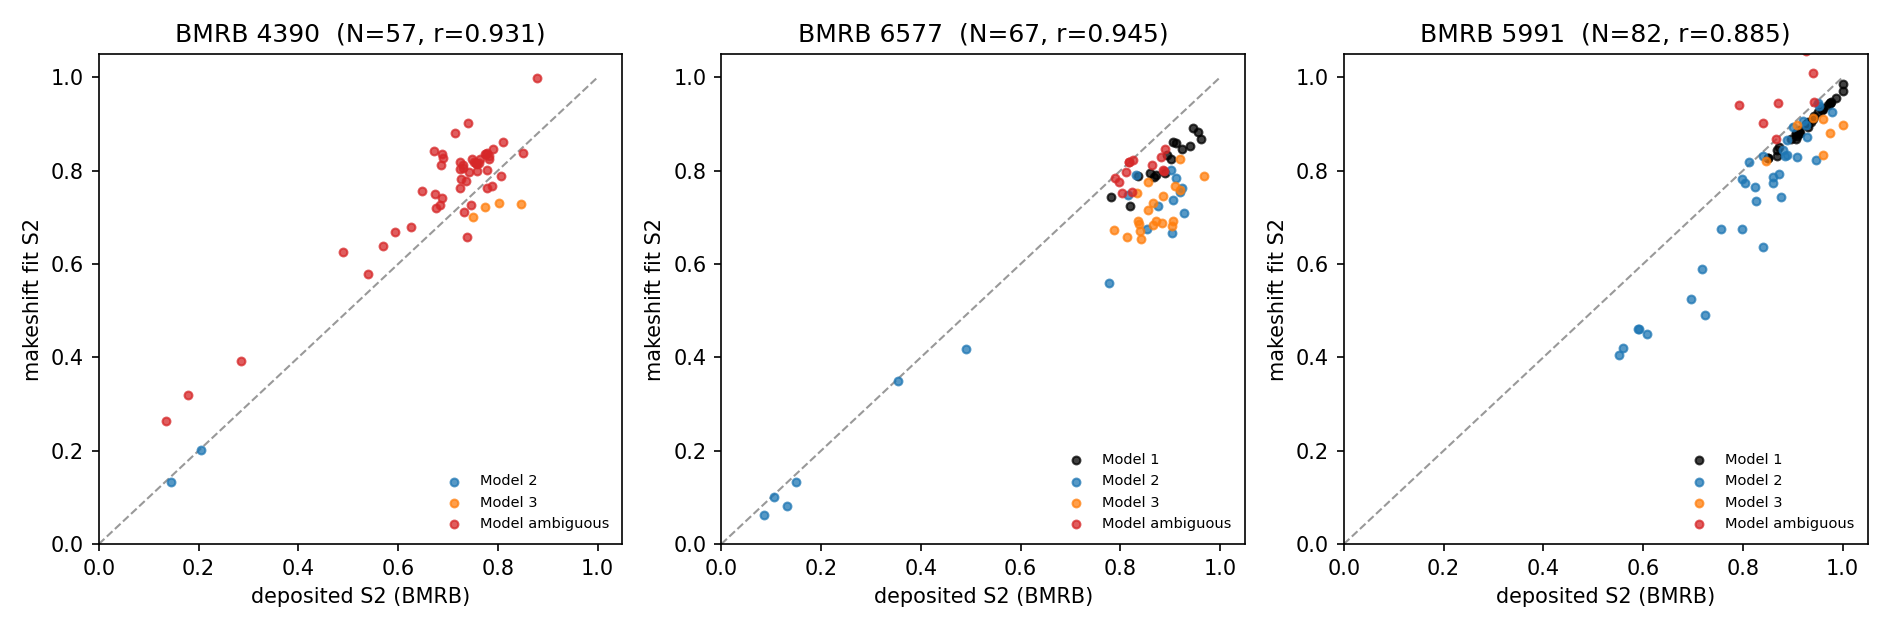
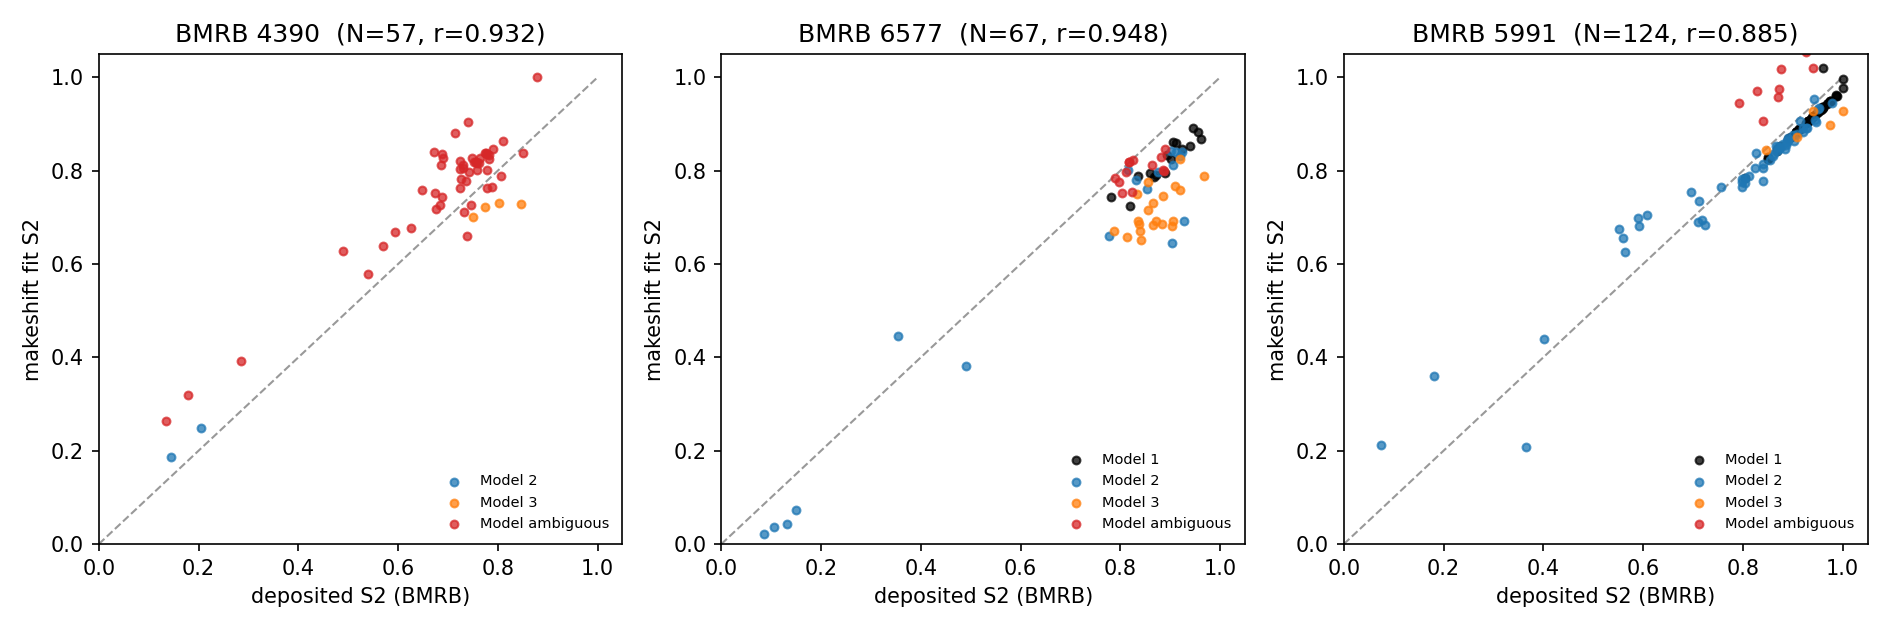
Fix multi-field mixing, promiscuous-PDB selection, and Model 2's missing NOE term
Three bugs found while extending validation to a multi-field, promiscuous
entry (BMRB 4245, ubiquitin):

1. RelaxationProfile.from_entry silently mixed relaxation lists across
   different spectrometer fields (entry.relaxation() returns all lists
   concatenated; alignment took first-match-per-residue with no regard
   for which field each row came from). Added field resolution
   (_resolve_field/_filter_by_list) that picks one target field (explicit
   or auto-detected where consistent across T1/T2/NOE) and filters to it;
   the resolved field is stored on the profile and reused by
   add_rigid_prediction/fit_order_parameters so data and physics always
   agree on field.

2. _resolve_pdb took get_pdb_ids()[0] unconditionally. For proteins with
   no depositor-curated related-entry link, that list is just every PDB
   sharing the sequence via entity cross-references (280 hits for
   ubiquitin) in no meaningful order -- landed on a fusion/complex
   structure with the wrong diffusion tensor. _best_pdb_by_length now
   checks candidates' polymer size via RCSB's entry API and prefers one
   matching this entry's own sequence length (falls back to [0]
   unchanged when the list is short or nothing matches).

3. The bigger one: _fit_model2's chi-square only ever included R1 and R2,
   never NOE, despite the physics writeup's explicit point that NOE is
   what makes tau_e distinguishable from S2 in the first place (S2 and
[…]

diff --git a/makeshift/relaxation/relax_profile.py b/makeshift/relaxation/relax_profile.py
@@ -76,7 +76,8 @@ class RelaxationProfile:
         those has run.
     """
  
-    def __init__(self, table, sequence, entry_id=None, entity_id=None, entry=None):
+    def __init__(self, table, sequence, entry_id=None, entity_id=None, entry=None,
+                 field_mhz=None):
         self.table = table
         self.sequence = sequence
         self.entry_id = entry_id
@@ -84,23 +85,38 @@ class RelaxationProfile:
         self.entry = entry
         self.scale_factor = None
         self.tau_scale = None
+        self.field_mhz = field_mhz
  
     # construction
  
     @classmethod
     def from_bmrb(cls, bmrb_id, entity_id=None, sequence=None, peaklist=None,
-                  **fetch_kw):
+                  field_mhz=None, **fetch_kw):
         """Fetch a BMRB entry and build a profile from its deposited relaxation."""
         entry = NMRStarEntry.from_bmrb(bmrb_id, **fetch_kw)
         return cls.from_entry(entry, entity_id=entity_id, sequence=sequence,
-                              peaklist=peaklist)
+                              peaklist=peaklist, field_mhz=field_mhz)
  
     @classmethod
-    def from_entry(cls, entry, entity_id=None, sequence=None, peaklist=None):
+    def from_entry(cls, entry, entity_id=None, sequence=None, peaklist=None,
+                   field_mhz=None):
         """
         Build from an already-parsed NMRStarEntry.
         Pulls R1 (from T1), R2 (from T2), and hetNOE, converting times to rates
         using each list's units tag.
+
+        Some entries deposit relaxation at more than one spectrometer field
+        (separate lists within the T1/T2/NOE loops). Mixing lists from
+        different fields into one R1/R2/NOE triple per residue would be
+        physically wrong, so a single target field is resolved first:
+        `field_mhz` if given, else whichever 1H frequency is tagged
+        consistently across T1/T2/NOE (raises if that's ambiguous — pass
+        `field_mhz` explicitly, found via e.g.
+        `entry.saveframe('heteronucl_T1_relaxation')`). Lists with no field
+        tag at all are used unfiltered (old behavior). The resolved field
+        is stored as `self.field_mhz`, reused by
+        `add_rigid_prediction`/`fit_order_parameters` so the data and the
+        physics predictions are always at the same field.
 
         `peaklist` (a PeakList, a DataFrame with a Seq_ID column, or an iterable
         of Seq_IDs) marks which residues have an assigned amide peak; if None,
@@ -125,14 +141,18 @@ class RelaxationProfile:
             "Seq_ID": np.arange(1, n + 1),
             "residue": list(sequence),
         })
+
+        field_mhz, list_filter = cls._resolve_field(entry, field_mhz)
  
         for kind, col in (("T1", "R1"), ("T2", "R2")):
             df = entry.relaxation(kind)
+            df = cls._filter_by_list(df, list_filter.get(kind))
             units = cls._list_units(entry, kind)
             table[col], table[f"{col}_err"] = cls._align_rate(
                 df, n, units, kind, entry_id=entry.entry_id)
  
         noe = entry.relaxation("NOE")
+        noe = cls._filter_by_list(noe, list_filter.get("NOE"))
         table["NOE"], table["NOE_err"] = cls._align_plain(noe, n)
  
         table["R2_R1"] = table["R2"] / table["R1"]
@@ -148,10 +168,91 @@ class RelaxationProfile:
  
         return cls(table, sequence,
                    entry_id=getattr(entry, "entry_id", None),
+                   field_mhz=field_mhz,
                    entity_id=entity_id, entry=entry)
  
     # alignment helpers
  
+    _RELAX_CATEGORY = {"T1": "heteronucl_T1_relaxation",
+                       "T2": "heteronucl_T2_relaxation",
+                       "NOE": "heteronucl_NOEs"}
+
+    @classmethod
+    def _list_fields_mhz(cls, entry, kind):
+        """{list framecode -> 1H spectrometer frequency (MHz)} for every
+        list of the given relaxation kind that carries the tag."""
+        out = {}
+        try:
+            sfs = entry.saveframe(cls._RELAX_CATEGORY[kind])
+        except Exception:
+            return out
+        for name, sf in sfs.items():
+            val = sf.get("Spectrometer_frequency_1H")
+            if val not in (None, ".", "?"):
+                try:
+                    out[name] = float(val)
+                except (TypeError, ValueError):
+                    continue
+        return out
+
+    @classmethod
+    def _resolve_field(cls, entry, field_mhz=None, tol_mhz=1.0):
+        """
+        Resolve a single target 1H field (MHz) and, for each of T1/T2/NOE,
+        which list framecodes belong to it. Returns (field_mhz,
+        {kind: set_of_list_names_or_None}) -- None means that kind has no
+        field tags at all, so it's used unfiltered.
+
+        If `field_mhz` isn't given: a field present (within `tol_mhz`)
+        across every kind that has any field tags is preferred; if none is
+        common to all of them, the most frequently tagged field is used.
+        Raises if no field tag is found anywhere and more than one list
+        exists for any kind (genuinely ambiguous -- pass `field_mhz`).
+        """
+        per_kind = {k: cls._list_fields_mhz(entry, k) for k in ("T1", "T2", "NOE")}
+        tagged = {k: f for k, f in per_kind.items() if f}
+
+        if field_mhz is None and tagged:
+            value_sets = [set(round(v) for v in f.values()) for f in tagged.values()]
+            common = set.intersection(*value_sets) if len(value_sets) > 1 else value_sets[0]
+            if common:
+                field_mhz = sorted(common)[0]
+            else:
+                from collections import Counter
+                counts = Counter(round(v) for f in tagged.values() for v in f.values())
+                field_mhz = counts.most_common(1)[0][0]
+
+        if field_mhz is None:
+            unfiltered = {k: None for k in ("T1", "T2", "NOE")}
+            for kind in ("T1", "T2", "NOE"):
+                df = entry.relaxation(kind)
+                n_lists = df["list"].nunique() if "list" in df.columns else 0
+                if n_lists > 1:
+                    raise ValueError(
+                        f"{entry.entry_id}: {kind} has {n_lists} lists and no "
+                        "Spectrometer_frequency_1H tag to disambiguate them; "
+                        "pass field_mhz=<1H frequency in MHz> explicitly"
+                    )
+            return None, unfiltered
+
+        list_filter = {}
+        for kind, fields in per_kind.items():
+            if not fields:
+                list_filter[kind] = None
+            else:
+                list_filter[kind] = {name for name, f in fields.items()
+                                     if abs(f - field_mhz) < tol_mhz}
+        return field_mhz, list_filter
+
+    @staticmethod
+    def _filter_by_list(df, list_names):
+        """Restrict a relaxation DataFrame to rows from `list_names`
+        (a set of framecodes); no-op if `list_names` is None or the
+        DataFrame has no `list` column."""
+        if list_names is None or "list" not in df.columns:
+            return df
+        return df[df["list"].isin(list_names)]
+
     @staticmethod
     def _list_units(entry, kind):
         override = fixes.unit_override(entry.entry_id, kind)
@@ -257,6 +358,44 @@ class RelaxationProfile:
     # structure resolution (shared by add_rigid_prediction and
     # fit_order_parameters)
 
+    def _best_pdb_by_length(self, pdb_ids, max_check=15, tol=5):
+        """
+        `get_pdb_ids()` can return a long, unordered list for widely-studied
+        proteins (e.g. ubiquitin: hundreds of fusion/complex structures
+        sharing its sequence via entity-level cross-references, when the
+        entry has no depositor-curated `_Related_entries` link) — picking
+        [0] blindly can land on a fusion or oligomeric complex with a very
+        different diffusion tensor than this entry's own construct.
+
+        Checks up to `max_check` candidates' polymer size via RCSB's entry
+        API (one lightweight request each) and returns the first whose
+        polymer monomer count is within `tol` residues of this profile's
+        own sequence length, preferring an NMR structure among ties.
+        Returns None if nothing in range or all requests fail (caller
+        should fall back to pdb_ids[0]).
+        """
+        import json
+        import urllib.request
+
+        target = len(self.sequence)
+        best, best_key = None, None
+        for pid in pdb_ids[:max_check]:
+            try:
+                url = f"https://data.rcsb.org/rest/v1/core/entry/{pid}"
+                with urllib.request.urlopen(url, timeout=10) as resp:
+                    info = json.load(resp).get("rcsb_entry_info", {})
+            except Exception:
+                continue
+            n = (info.get("deposited_polymer_monomer_count")
+                 or info.get("polymer_monomer_count_maximum"))
+            if n is None or abs(n - target) > tol:
+                continue
+            is_nmr = "NMR" in (info.get("experimental_method") or "").upper()
+            key = (0 if is_nmr else 1, abs(n - target))
+            if best_key is None or key < best_key:
+                best, best_key = pid, key
+        return best
+
     def _resolve_pdb(self, pdb, source, **fetch_kw):
         """
         Resolve `pdb` to a local structure file path. `pdb` may be a local
@@ -265,12 +404,26 @@ class RelaxationProfile:
         one. If `pdb` is None, the entry's own deposited PDB code is used
         when it cites one; otherwise this raises (makeshift does not
         predict structure).
+
+        When multiple PDB ids are cited, the first is normally used (see
+        `NMRStarEntry.get_pdb_ids`, which prefers a depositor-curated
+        related-entry link when one exists) — but if there are more than a
+        few candidates, `_best_pdb_by_length` tries to pick one whose
+        polymer size actually matches this entry's sequence, since a long
+        candidate list usually means no curated link and a size mismatch
+        indicates a fusion/complex structure rather than this construct.
         """
         from ..utils.structures import fetch_structure
 
         if pdb is None:
             pdb_ids = self.entry.get_pdb_ids() if self.entry is not None else []
             af_ids = self.entry.get_alphafold_ids() if self.entry is not None else []
+            if len(pdb_ids) > 3:
+                better = self._best_pdb_by_length(pdb_ids)
+                if better is not None and better != pdb_ids[0]:
+                    print(f"  {len(pdb_ids)} PDB ids cited; {pdb_ids[0]} size "
+                          f"doesn't match the sequence, using {better} instead")
+                    pdb_ids = [better] + [p for p in pdb_ids if p != better]
             if source == "rcsb":
                 if not pdb_ids:
                     raise ValueError("entry cites no PDB; pass pdb=<PDB id | path>")
@@ -296,10 +449,15 @@ class RelaxationProfile:
 
     def _detect_field_mhz(self):
         """
-        The entry's 1H spectrometer frequency (MHz), read from its own
-        heteronucl_T1_relaxation saveframe (`Spectrometer_frequency_1H`).
-        Returns None if unavailable.
+        The 1H spectrometer frequency (MHz) this profile's R1/R2/NOE were
+        actually built at. Prefers `self.field_mhz` (set by `from_entry`'s
+        own field resolution, so it's guaranteed to match the data);
+        falls back to scanning the entry's heteronucl_T1_relaxation
+        saveframe directly for profiles built another way. Returns None
+        if unavailable.
         """
+        if self.field_mhz is not None:
+            return self.field_mhz
         if self.entry is None:
             return None
         try:
@@ -345,26 +503,33 @@ class RelaxationProfile:
 
     def _calibration_subset(self, geometry, noe_cut):
         """
-        (amplitudes, taus, R1, R1_err, R2, R2_err) tuples for the
-        presumed-rigid residues (NOE > `noe_cut`) used to calibrate
-        `model_free.calibrate_tau_scale`; falls back to every residue
-        with R1/R2 data (with a warning) if fewer than 3 qualify.
+        (amplitudes, taus, R1, R1_err, R2, R2_err, NOE, NOE_err) tuples for
+        the presumed-rigid residues (NOE > `noe_cut`) used to calibrate
+        `model_free.calibrate_tau_scale` -- NOE is included (not just
+        R1/R2) so the calibrated rigid prediction doesn't carry a
+        systematic NOE offset into the per-residue Model 2 (tau_e)
+        diagnostic, which compares raw NOE_pred_rigid to observed NOE.
+        Falls back to every residue with R1/R2 data (with a warning) if
+        fewer than 3 qualify.
         """
         def usable(row):
             return (row.get("R1") is not None and np.isfinite(row.get("R1"))
                     and row.get("R2") is not None and np.isfinite(row.get("R2")))
 
+        def tup(amplitudes, taus, row):
+            return (amplitudes, taus, row.get("R1"), row.get("R1_err"),
+                    row.get("R2"), row.get("R2_err"),
+                    row.get("NOE"), row.get("NOE_err"))
+
         calibration = [
-            (amplitudes, taus, row.get("R1"), row.get("R1_err"),
-             row.get("R2"), row.get("R2_err"))
+            tup(amplitudes, taus, row)
             for amplitudes, taus, row in geometry.values()
             if usable(row) and row.get("NOE") is not None
             and np.isfinite(row.get("NOE")) and row.get("NOE") > noe_cut
         ]
         if len(calibration) < 3:
             calibration = [
-                (amplitudes, taus, row.get("R1"), row.get("R1_err"),
-                 row.get("R2"), row.get("R2_err"))
+                tup(amplitudes, taus, row)
                 for amplitudes, taus, row in geometry.values() if usable(row)
             ]
             warnings.warn(

diff --git a/makeshift/relaxation/model_free.py b/makeshift/relaxation/model_free.py
@@ -103,19 +103,33 @@ def calibrate_tau_scale(residues, d2, c2, gamma_h, gamma_x, omega_h, omega_x):
     R2/R1 ratio) before any residue's S2 is fit.
 
     `residues` is a list of (amplitudes, taus, R1_obs, R1_err, R2_obs,
-    R2_err) tuples for the calibration set. Returns k (dimensionless).
+    R2_err, NOE_obs, NOE_err) tuples for the calibration set (NOE_obs/
+    NOE_err may be None to fit R1/R2 only). Including NOE matters: with
+    tau_e=0 elsewhere in this module, NOE is independent of S2 and used
+    directly as the "does this residue need tau_e" diagnostic
+    (`fit_residue`'s noe_flag) against the *uncalibrated* NOE_pred_rigid,
+    so any systematic NOE offset this calibration leaves behind reads as
+    widespread spurious tau_e need rather than real dynamics -- fitting
+    NOE here too is what removes that offset before per-residue model
+    selection runs. Returns k (dimensionless).
     """
     def chi2(log_k):
         k = 10.0 ** log_k
         total = 0.0
-        for amplitudes, taus, R1_obs, R1_err, R2_obs, R2_err in residues:
+        for res in residues:
+            amplitudes, taus, R1_obs, R1_err, R2_obs, R2_err = res[:6]
+            NOE_obs = res[6] if len(res) > 6 else None
+            NOE_err = res[7] if len(res) > 7 else None
             taus_k = [t * k for t in taus]
-            r1p, r2p, _ = relaxation_rates(
+            r1p, r2p, noep = relaxation_rates(
                 d2, c2, gamma_h, gamma_x, omega_h, omega_x,
                 amplitudes, taus_k, S2=1.0, tau_e=0.0)
             w1 = 1.0 / R1_err ** 2 if (R1_err and np.isfinite(R1_err) and R1_err > 0) else 1.0
             w2 = 1.0 / R2_err ** 2 if (R2_err and np.isfinite(R2_err) and R2_err > 0) else 1.0
             total += w1 * (R1_obs - r1p) ** 2 + w2 * (R2_obs - r2p) ** 2
+            if NOE_obs is not None and np.isfinite(NOE_obs):
+                w3 = 1.0 / NOE_err ** 2 if (NOE_err and np.isfinite(NOE_err) and NOE_err > 0) else 1.0
+                total += w3 * (NOE_obs - noep) ** 2
         return total
 
     grid = np.linspace(-1.0, 1.0, 41)   # k in [0.1, 10]
@@ -214,7 +228,7 @@ def fit_residue(R1_obs, R1_err, R2_obs, R2_err, NOE_obs, NOE_err,
 
     if noe_flag:
         S2, tau_e_s, S2_err = _fit_model2(
-            R1_obs, R1_err, R2_obs, R2_err,
+            R1_obs, R1_err, R2_obs, R2_err, NOE_obs, NOE_err,
             d2, c2, gamma_h, gamma_x, omega_h, omega_x, amplitudes, taus)
         return ResidueFit(model="2", S2=S2, S2_err=S2_err,
                            tau_e_ps=tau_e_s * 1e12, NOE_pred_rigid=NOE_rigid,
@@ -229,13 +243,21 @@ def fit_residue(R1_obs, R1_err, R2_obs, R2_err, NOE_obs, NOE_err,
                        NOE_pred_rigid=NOE_rigid)
 
 
-def _fit_model2(R1_obs, R1_err, R2_obs, R2_err,
+def _fit_model2(R1_obs, R1_err, R2_obs, R2_err, NOE_obs, NOE_err,
                  d2, c2, gamma_h, gamma_x, omega_h, omega_x, amplitudes, taus):
     """Model 2 (S2, tau_e): 1D bounded search over tau_e (the only place it
     enters nonlinearly), with S2 solved by exact weighted linear regression
     against R1 and R2 at each trial tau_e (both are affine in S2 for fixed
     tau_e: R(S2) = R_B(tau_e) + S2*(R_rigid - R_B(tau_e)), where R_B is the
-    S2=0 endpoint at that tau_e). Returns (S2, tau_e_seconds, S2_err)."""
+    S2=0 endpoint at that tau_e).
+
+    NOE is not part of that inner linear solve (it's a nonlinear ratio in
+    S2 even at fixed tau_e -- see model_free module docstring), but it is
+    part of the outer chi-square that picks tau_e: without it, tau_e/S2
+    are only constrained by the same two numbers (R1, R2) Model 1 already
+    uses, which is degenerate -- multiple (S2, tau_e) pairs fit R1/R2
+    equally well, and nothing favors the tau_e->0 (Model 1) solution even
+    when it's correct. Returns (S2, tau_e_seconds, S2_err)."""
     R1_rigid, R2_rigid, _ = relaxation_rates(
         d2, c2, gamma_h, gamma_x, omega_h, omega_x, amplitudes, taus,
         S2=1.0, tau_e=0.0)
@@ -256,12 +278,16 @@ def _fit_model2(R1_obs, R1_err, R2_obs, R2_err,
         if not np.isfinite(S2):
             return np.inf
         S2 = min(max(S2, 0.0), 1.0)
-        r1p, r2p, _ = relaxation_rates(
+        r1p, r2p, noep = relaxation_rates(
             d2, c2, gamma_h, gamma_x, omega_h, omega_x, amplitudes, taus,
             S2=S2, tau_e=tau_e)
         w1 = 1.0 / R1_err ** 2 if (R1_err and np.isfinite(R1_err) and R1_err > 0) else 1.0
         w2 = 1.0 / R2_err ** 2 if (R2_err and np.isfinite(R2_err) and R2_err > 0) else 1.0
-        return w1 * (R1_obs - r1p) ** 2 + w2 * (R2_obs - r2p) ** 2
+        cost = w1 * (R1_obs - r1p) ** 2 + w2 * (R2_obs - r2p) ** 2
+        if NOE_obs is not None and np.isfinite(NOE_obs):
+            w3 = 1.0 / NOE_err ** 2 if (NOE_err and np.isfinite(NOE_err) and NOE_err > 0) else 1.0
+            cost += w3 * (NOE_obs - noep) ** 2
+        return cost
 
     # coarse log-spaced grid, then a bounded local polish -- mirrors the
     # perl script's own "gridsearch then Powell" pattern.
